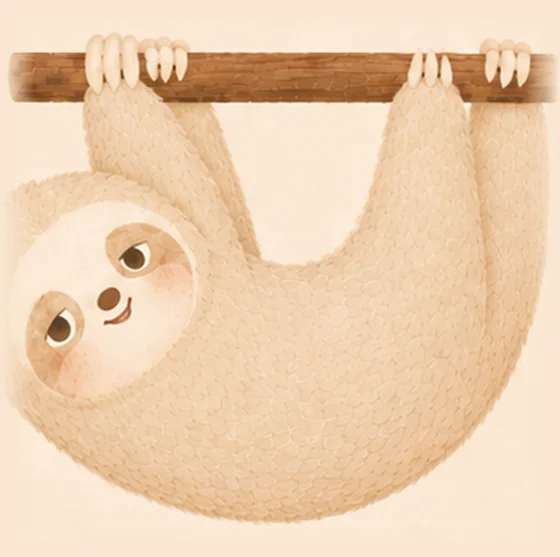
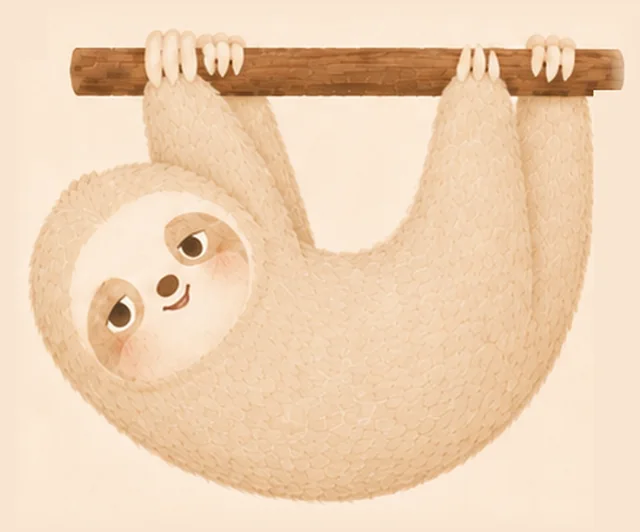
慢寶不再只待在首頁：底部固定條變成牠的嘴巴，每頁講不同的話
- 首頁改成兩段：先趴著打招呼，點一下才出現兩個入口
- 對話框移到頭上，尾巴指著牠；拿掉首頁標題
- 左右邊距收窄，插畫放到最大
- hang_u 重切：補回被切掉的樹枝兩端，清掉 logo 殘影
- 招呼語會依上次來訪間隔和時段變化

diff --git a/index.html b/index.html
@@ -75,7 +75,7 @@ img { display: block; max-width: 100%; }
   .page.in-fwd, .page.in-back, .page.out-fwd, .page.out-back { animation-duration: .01s; }
 }
 
-.wrap { max-width: 720px; margin: 0 auto; padding: 0 20px; }
+.wrap { max-width: 720px; margin: 0 auto; padding: 0 14px; }
 
 /* ─────────── 頂端列 ─────────── */
 
@@ -103,26 +103,41 @@ img { display: block; max-width: 100%; }
   min-height: 100%;
   display: flex; flex-direction: column;
   align-items: center; justify-content: center;
-  padding: 20px 20px 10px;
+  padding: 24px 8px 12px;              /* 左右留很少，插畫要放得開 */
   text-align: center;
 }
-.home-logo { font-size: 30px; font-weight: 700; letter-spacing: 3px; }
-.home-tag { font-size: 12.5px; color: var(--faint); letter-spacing: 2px; margin-top: 2px; }
 
-.bo-stage { margin: 10px 0 4px; width: 100%; max-width: 300px; }
-.bo-stage img { width: 100%; }
-
+/* 對話框在慢寶頭上，尾巴朝下指著牠 */
 .bo-say {
+  position: relative;
   background: var(--surface);
   border-radius: var(--r-lg);
-  padding: 13px 20px;
-  font-size: 14.5px;
+  padding: 14px 22px;
+  font-size: 15px;
   box-shadow: var(--shadow);
-  margin-bottom: 26px;
-  max-width: 330px;
+  max-width: 300px;
+  margin: 0 auto 14px;
+  animation: pop .3s cubic-bezier(.34,1.56,.64,1) both;
 }
+.bo-say::after {
+  content: '';
+  position: absolute; left: 50%; bottom: -8px; transform: translateX(-50%);
+  border: 9px solid transparent;
+  border-top-color: var(--surface);
+  border-bottom: 0;
+}
+@keyframes pop { from { opacity: 0; transform: translateY(6px) scale(.96); } to { opacity: 1; transform: none; } }
 
-.gate { display: grid; gap: 12px; width: 100%; max-width: 330px; }
+.bo-stage { width: 100%; max-width: 430px; }
+.bo-stage img { width: 100%; }
+
+.tap-hint {
+  font-size: 12px; color: var(--faint); letter-spacing: 2px;
+  margin-top: 18px; animation: breathe 2.4s ease-in-out infinite;
+}
+@keyframes breathe { 0%,100% { opacity: .45; } 50% { opacity: 1; } }
+
+.gate { display: grid; gap: 12px; width: 100%; max-width: 330px; margin-top: 20px; }
 .gate button {
   border-radius: var(--r-md);
   padding: 16px 18px;
@@ -140,7 +155,7 @@ img { display: block; max-width: 100%; }
 /* ─────────── 食譜牆 ─────────── */
 
 .search {
-  position: relative; margin: 0 20px 14px;
+  position: relative; margin: 0 14px 14px;
 }
 .search input {
   width: 100%;
@@ -267,17 +282,25 @@ ol.steps strong { color: var(--brand); font-weight: 700; }
   border-top: 1px solid var(--line);
   box-shadow: 0 -2px 14px rgba(120,90,60,.06);
 }
-.tray-face { width: 38px; flex: none; }
-.tray-txt { flex: 1; font-size: 13.5px; line-height: 1.35; }
-.tray-txt b { font-size: 14.5px; }
-.tray-txt .s { display: block; font-size: 11.5px; color: var(--faint); }
+.tray-face { width: 42px; flex: none; }
+/* 慢寶在底部一直都在，這裡就是牠的嘴巴 */
+.tray-txt { flex: 1; font-size: 13.5px; line-height: 1.4; color: var(--muted); }
 .tray-go {
+  position: relative;
   background: var(--brand); color: #fff;
   border-radius: 999px; padding: 9px 17px;
   font-size: 13px; font-weight: 700; letter-spacing: .5px;
+  flex: none;
 }
 .tray-go:active { transform: scale(.95); }
-.tray-go[disabled] { background: var(--line); color: var(--faint); }
+.tray-badge {
+  position: absolute; top: -5px; right: -5px;
+  min-width: 20px; height: 20px; padding: 0 5px;
+  border-radius: 999px;
+  background: var(--gold); color: #4A3B32;
+  font-size: 11.5px; line-height: 20px; text-align: center;
+  box-shadow: 0 1px 4px rgba(120,90,60,.25);
+}
 
 .tabs { display: flex; gap: 4px; margin: 4px 20px 16px; }
 .tabs button {
@@ -316,10 +339,10 @@ ol.steps strong { color: var(--brand); font-weight: 700; }
 
 <div id="viewport"></div>
 
-<div class="tray" onclick="go('/menu/buy')">
-  <img class="tray-face" id="tray-face" src="bo/face_sleepy.webp" alt="">
+<div class="tray">
+  <img class="tray-face" id="tray-face" src="bo/face_sleepy.webp" alt="慢寶">
   <div class="tray-txt" id="tray-txt"></div>
-  <button class="tray-go" id="tray-go">看清單</button>
+  <button class="tray-go" id="tray-go">今日菜單<span class="tray-badge" id="tray-badge" hidden></span></button>
 </div>
 
 <script src="recipes.js"></script>
@@ -353,13 +376,48 @@ const BO = {
   surprised:'bo/face_surprised.webp',
 };
 
-/* 慢寶在首頁講的話 —— 之後照最後煮飯時間／菜單狀況再細分 */
-function boHomeLine() {
+/* 上次來訪 —— 用來決定招呼語 */
+const SEEN = 'bo_seen';
+function daysSinceSeen() {
+  const t = +localStorage.getItem(SEEN) || 0;
+  if (!t) return null;
+  return Math.floor((Date.now() - t) / 86400000);
+}
+const markSeen = () => localStorage.setItem(SEEN, Date.now());
+
+/* 招呼（進 app 第一眼，慢寶趴著） */
+function boGreeting() {
+  const d = daysSinceSeen();
+  const h = new Date().getHours();
+  if (d === null)          return '喔，新的人。';
+  if (d >= 3)              return `${d} 天沒來了。是不是都在吃外送。`;
+  if (h >= 22 || h < 5)    return '這個時間？……好吧。';
+  if (d === 0)             return '又是你。';
+  return '回來啦。';
+}
+
+/* 慢寶在各頁講的話 —— 牠整個 app 都在，這裡是牠的嘴巴 */
+function boLine(path) {
   const n = menu.size;
-  if (n === 0) return ['今天怎麼辦？', BO.hang];
-  if (n === 1) return ['先加了一道。還要嗎？', BO.drape];
-  if (n <= 3)  return [`${n} 道了，看起來是認真的。`, BO.drape];
-  return [`${n} 道……你今天很有野心喔。`, BO.cheeky];
+  if (path.startsWith('/menu')) {
+    if (n === 0) return [BO.sleepy, '空的。我繼續睡。'];
+    return path.endsWith('prep')
+      ? [BO.cheeky, '要先泡先醃的別拖，不然你會等到天亮。']
+      : [BO.satisfied, `這些買齊就夠了，${n} 道份。`];
+  }
+  if (path.startsWith('/recipe/')) {
+    const r = byId(+path.split('/')[2]);
+    if (!r) return [BO.blank, ''];
+    if (r.urgentNote)  return [BO.cheeky, '這道有東西要先做，往下看。'];
+    if (r.stars >= 3)  return [BO.surprised, '這道你確定？……好啦，你可以。'];
+    return [BO.sleepy, '這道我熟。'];
+  }
+  if (path === '/wall') {
+    if (n === 0) return [BO.sleepy, '慢慢看，我不趕時間。'];
+    if (n <= 3)  return [BO.satisfied, `${n} 道了。還要嗎？`];
+    return [BO.cheeky, `${n} 道……你今天很有野心喔。`];
+  }
+  return [n ? BO.satisfied : BO.sleepy, n ? `菜單裡有 ${n} 道。` : ''];
 }
 
 /* ── 小工具 ── */
@@ -434,24 +492,36 @@ window.addEventListener('hashchange', route);
 
 /* ══════════ 首頁 ══════════ */
 
+/* 首頁有兩段：先打招呼（趴著），點一下才出現兩個入口 */
+let homeGreeted = false;
+
 function renderHome(el) {
-  const [line, img] = boHomeLine();
-  el.innerHTML = `
-    <div class="home">
-      <div class="home-logo">慢寶</div>
-      <div class="home-tag">SLOW COOK · 늘보</div>
-      <div class="bo-stage"><img src="${img}" alt="慢寶"></div>
-      <div class="bo-say">${esc(line)}</div>
-      <div class="gate">
-        <button class="primary" onclick="go('/wall')">
-          <div class="g-t">我知道要吃什麼</div>
-          <div class="g-s">自己翻，看到想吃的就加進菜單</div>
-        </button>
-        <button onclick="alert('問答流程還沒做 — 下一步就是它')">
-          <div class="g-t">完全沒想法</div>
-          <div class="g-s">回答三個問題，慢寶幫你挑</div>
-        </button>
-      </div>
+  el.innerHTML = `<div class="home" id="home"></div>`;
+  paintHome($('#home', el));
+}
+
+function paintHome(box) {
+  if (!homeGreeted) {
+    box.innerHTML = `
+      <div class="bo-say">${esc(boGreeting())}</div>
+      <div class="bo-stage"><img src="${BO.drape}" alt="慢寶"></div>
+      <div class="tap-hint">點一下</div>`;
+    box.onclick = () => { homeGreeted = true; markSeen(); paintHome(box); };
+    return;
+  }
+  box.onclick = null;
+  box.innerHTML = `
+    <div class="bo-say">今天怎麼辦？</div>
+    <div class="bo-stage"><img src="${BO.hang}" alt="慢寶"></div>
+    <div class="gate">
+      <button class="primary" onclick="go('/wall')">
+        <div class="g-t">我知道要吃什麼</div>
+        <div class="g-s">自己翻，看到想吃的就加進菜單</div>
+      </button>
+      <button onclick="alert('問答流程還沒做 — 下一步就是它')">
+        <div class="g-t">完全沒想法</div>
+        <div class="g-s">回答三個問題，慢寶幫你挑</div>
+      </button>
     </div>`;
 }
 
@@ -703,22 +773,18 @@ function prepHTML(sel) {
 /* ══════════ 底部菜單條 ══════════ */
 
 function paintTray() {
-  const n = menu.size;
-  const path = (location.hash || '#/').slice(1);
-  $('#tray-txt').innerHTML = n === 0
-    ? '今日菜單是空的<span class="s">看到想吃的就按 ＋</span>'
-    : `<b>今日菜單 ${n} 道</b><span class="s">${RECIPES.filter(r => menu.has(r.id)).map(r => r.title).join('、')}</span>`;
-  $('#tray-face').src = n === 0 ? BO.sleepy : (n > 3 ? BO.cheeky : BO.satisfied);
-  const go_ = $('#tray-go');
-  go_.disabled = n === 0;
-  go_.textContent = path.startsWith('/menu') ? '關閉' : '看清單';
+  const path = (location.hash || '#/').slice(1) || '/';
+  const [face, line] = boLine(path);
+  $('#tray-face').src = face;
+  $('#tray-txt').textContent = line;
+  const badge = $('#tray-badge');
+  badge.hidden = menu.size === 0;
+  badge.textContent = menu.size;
+  $('#tray-go').firstChild.textContent = path.startsWith('/menu') ? '關閉' : '今日菜單';
 }
 
-$('#tray-go').onclick = e => {
-  e.stopPropagation();
-  if (menu.size === 0) return;
+$('#tray-go').onclick = () =>
   (location.hash || '#/').slice(1).startsWith('/menu') ? back() : go('/menu/buy');
-};
 
 /* ══════════ 起飛 ══════════ */
 if (!location.hash) location.hash = '#/';
